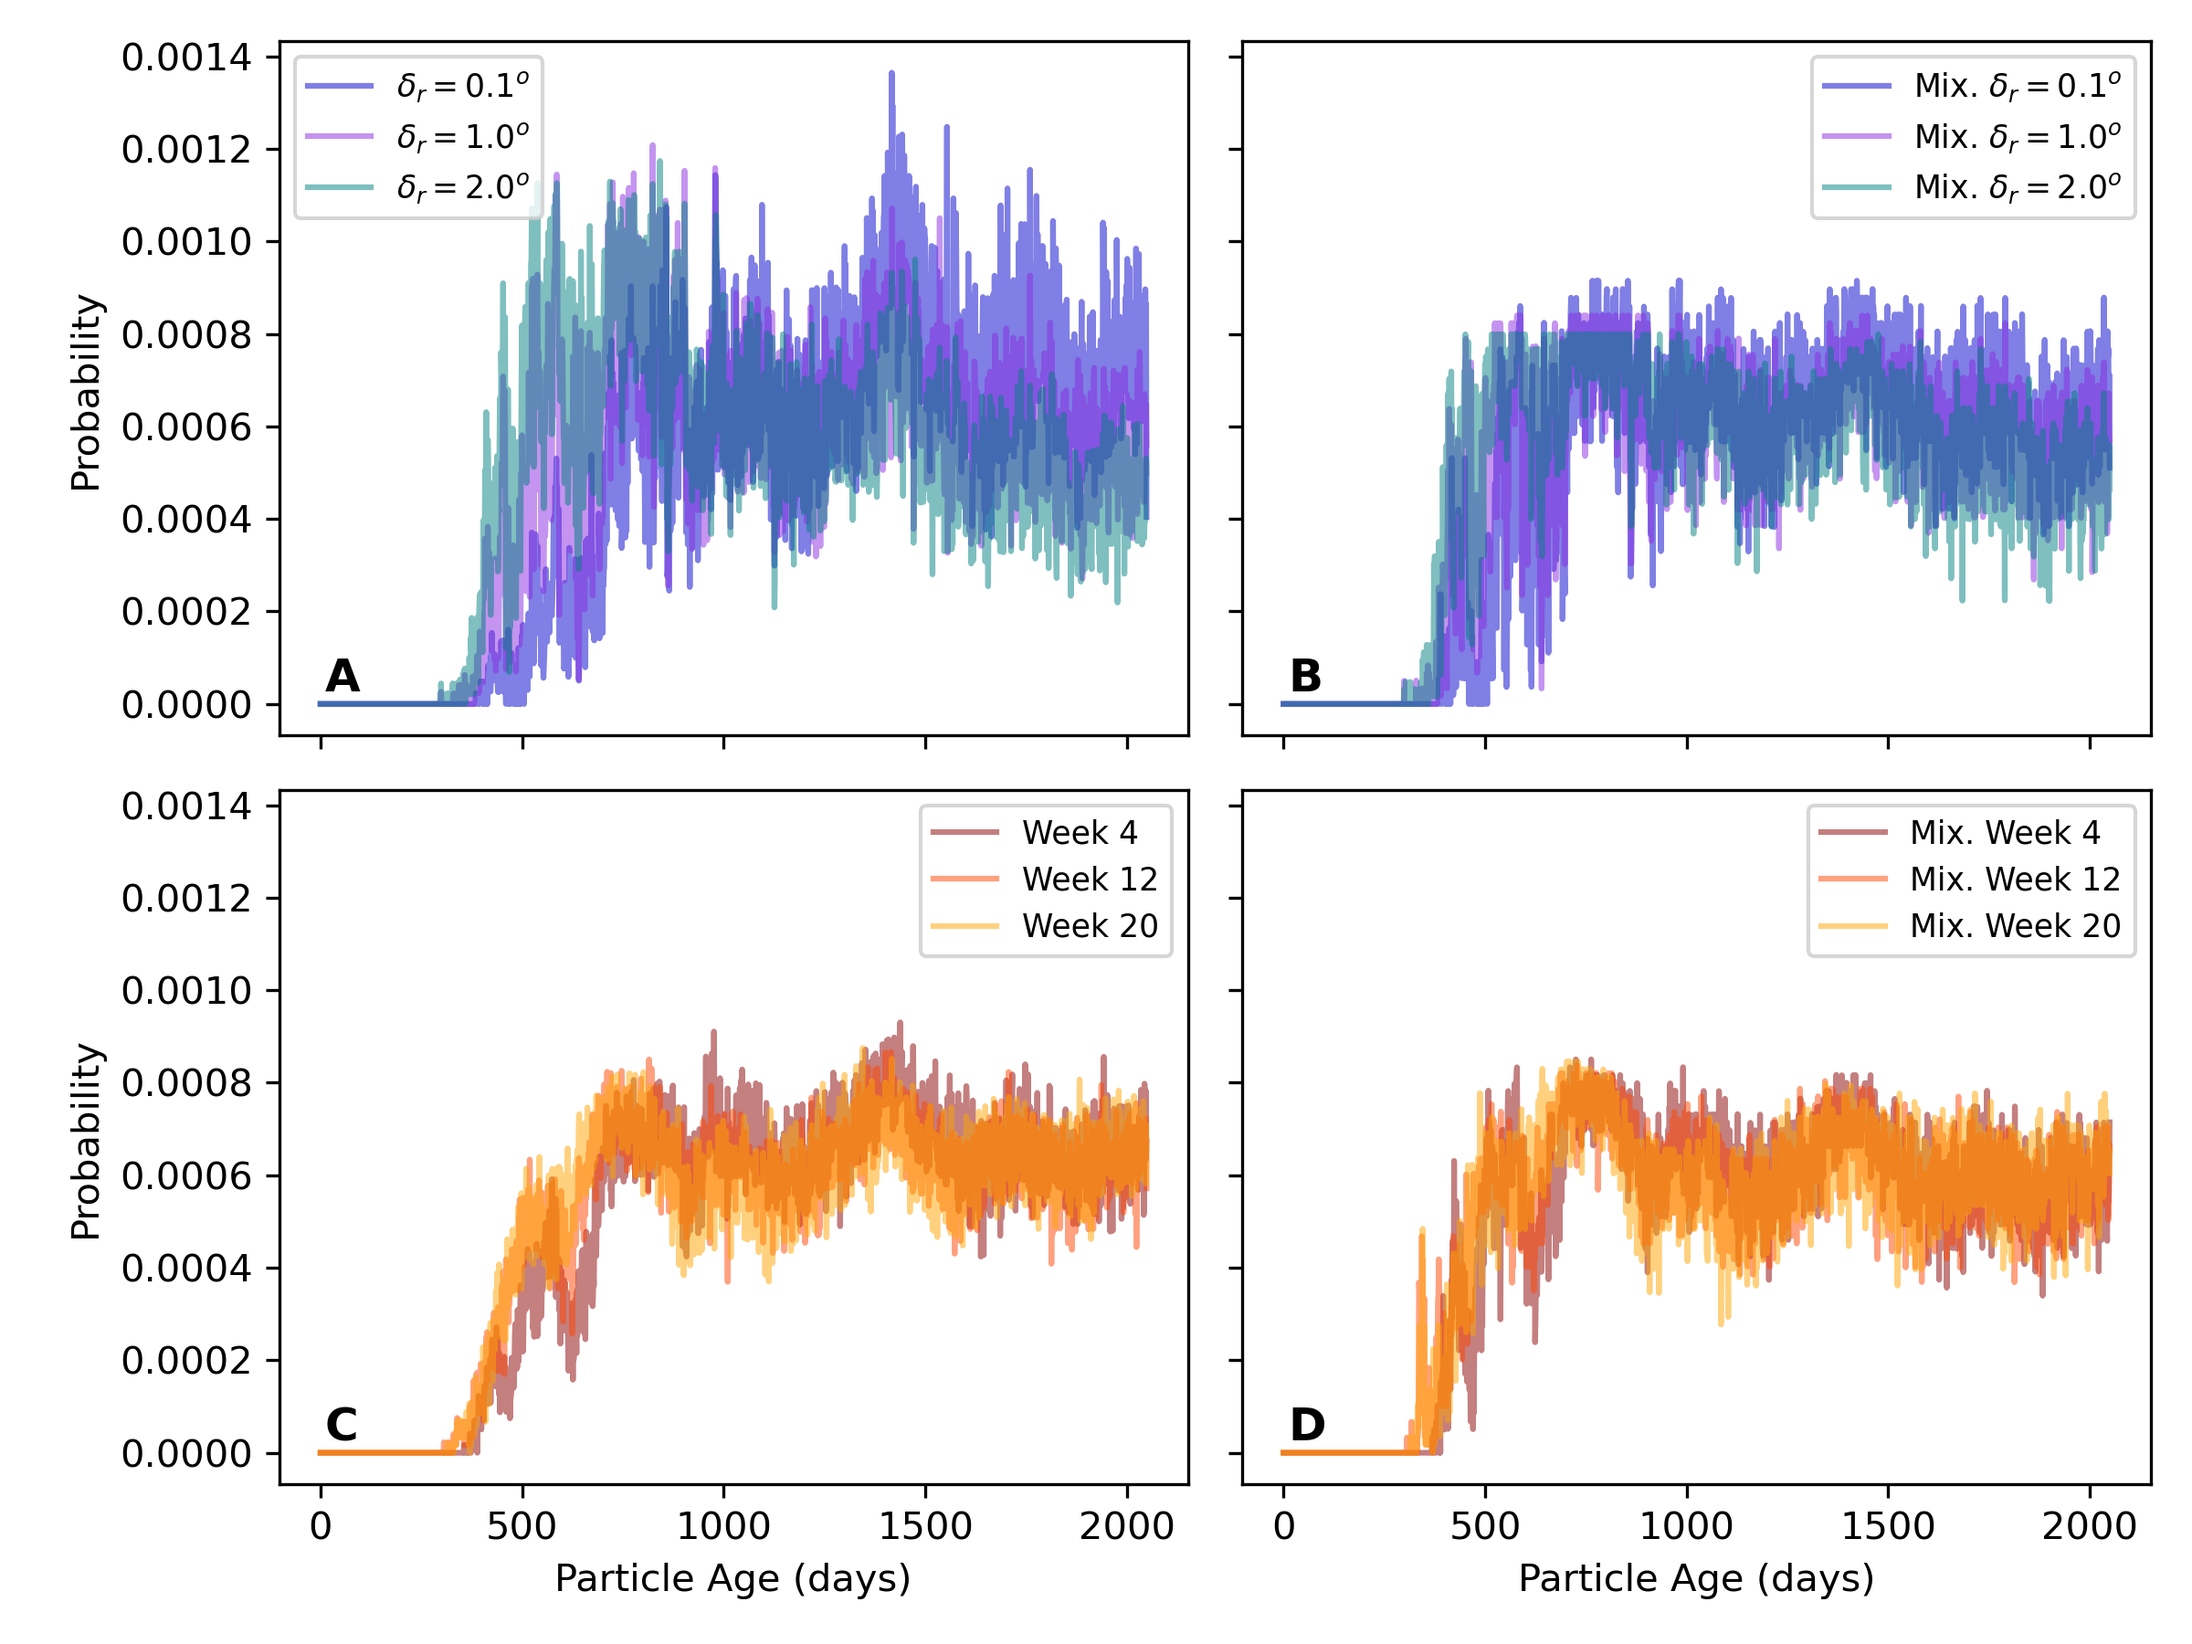
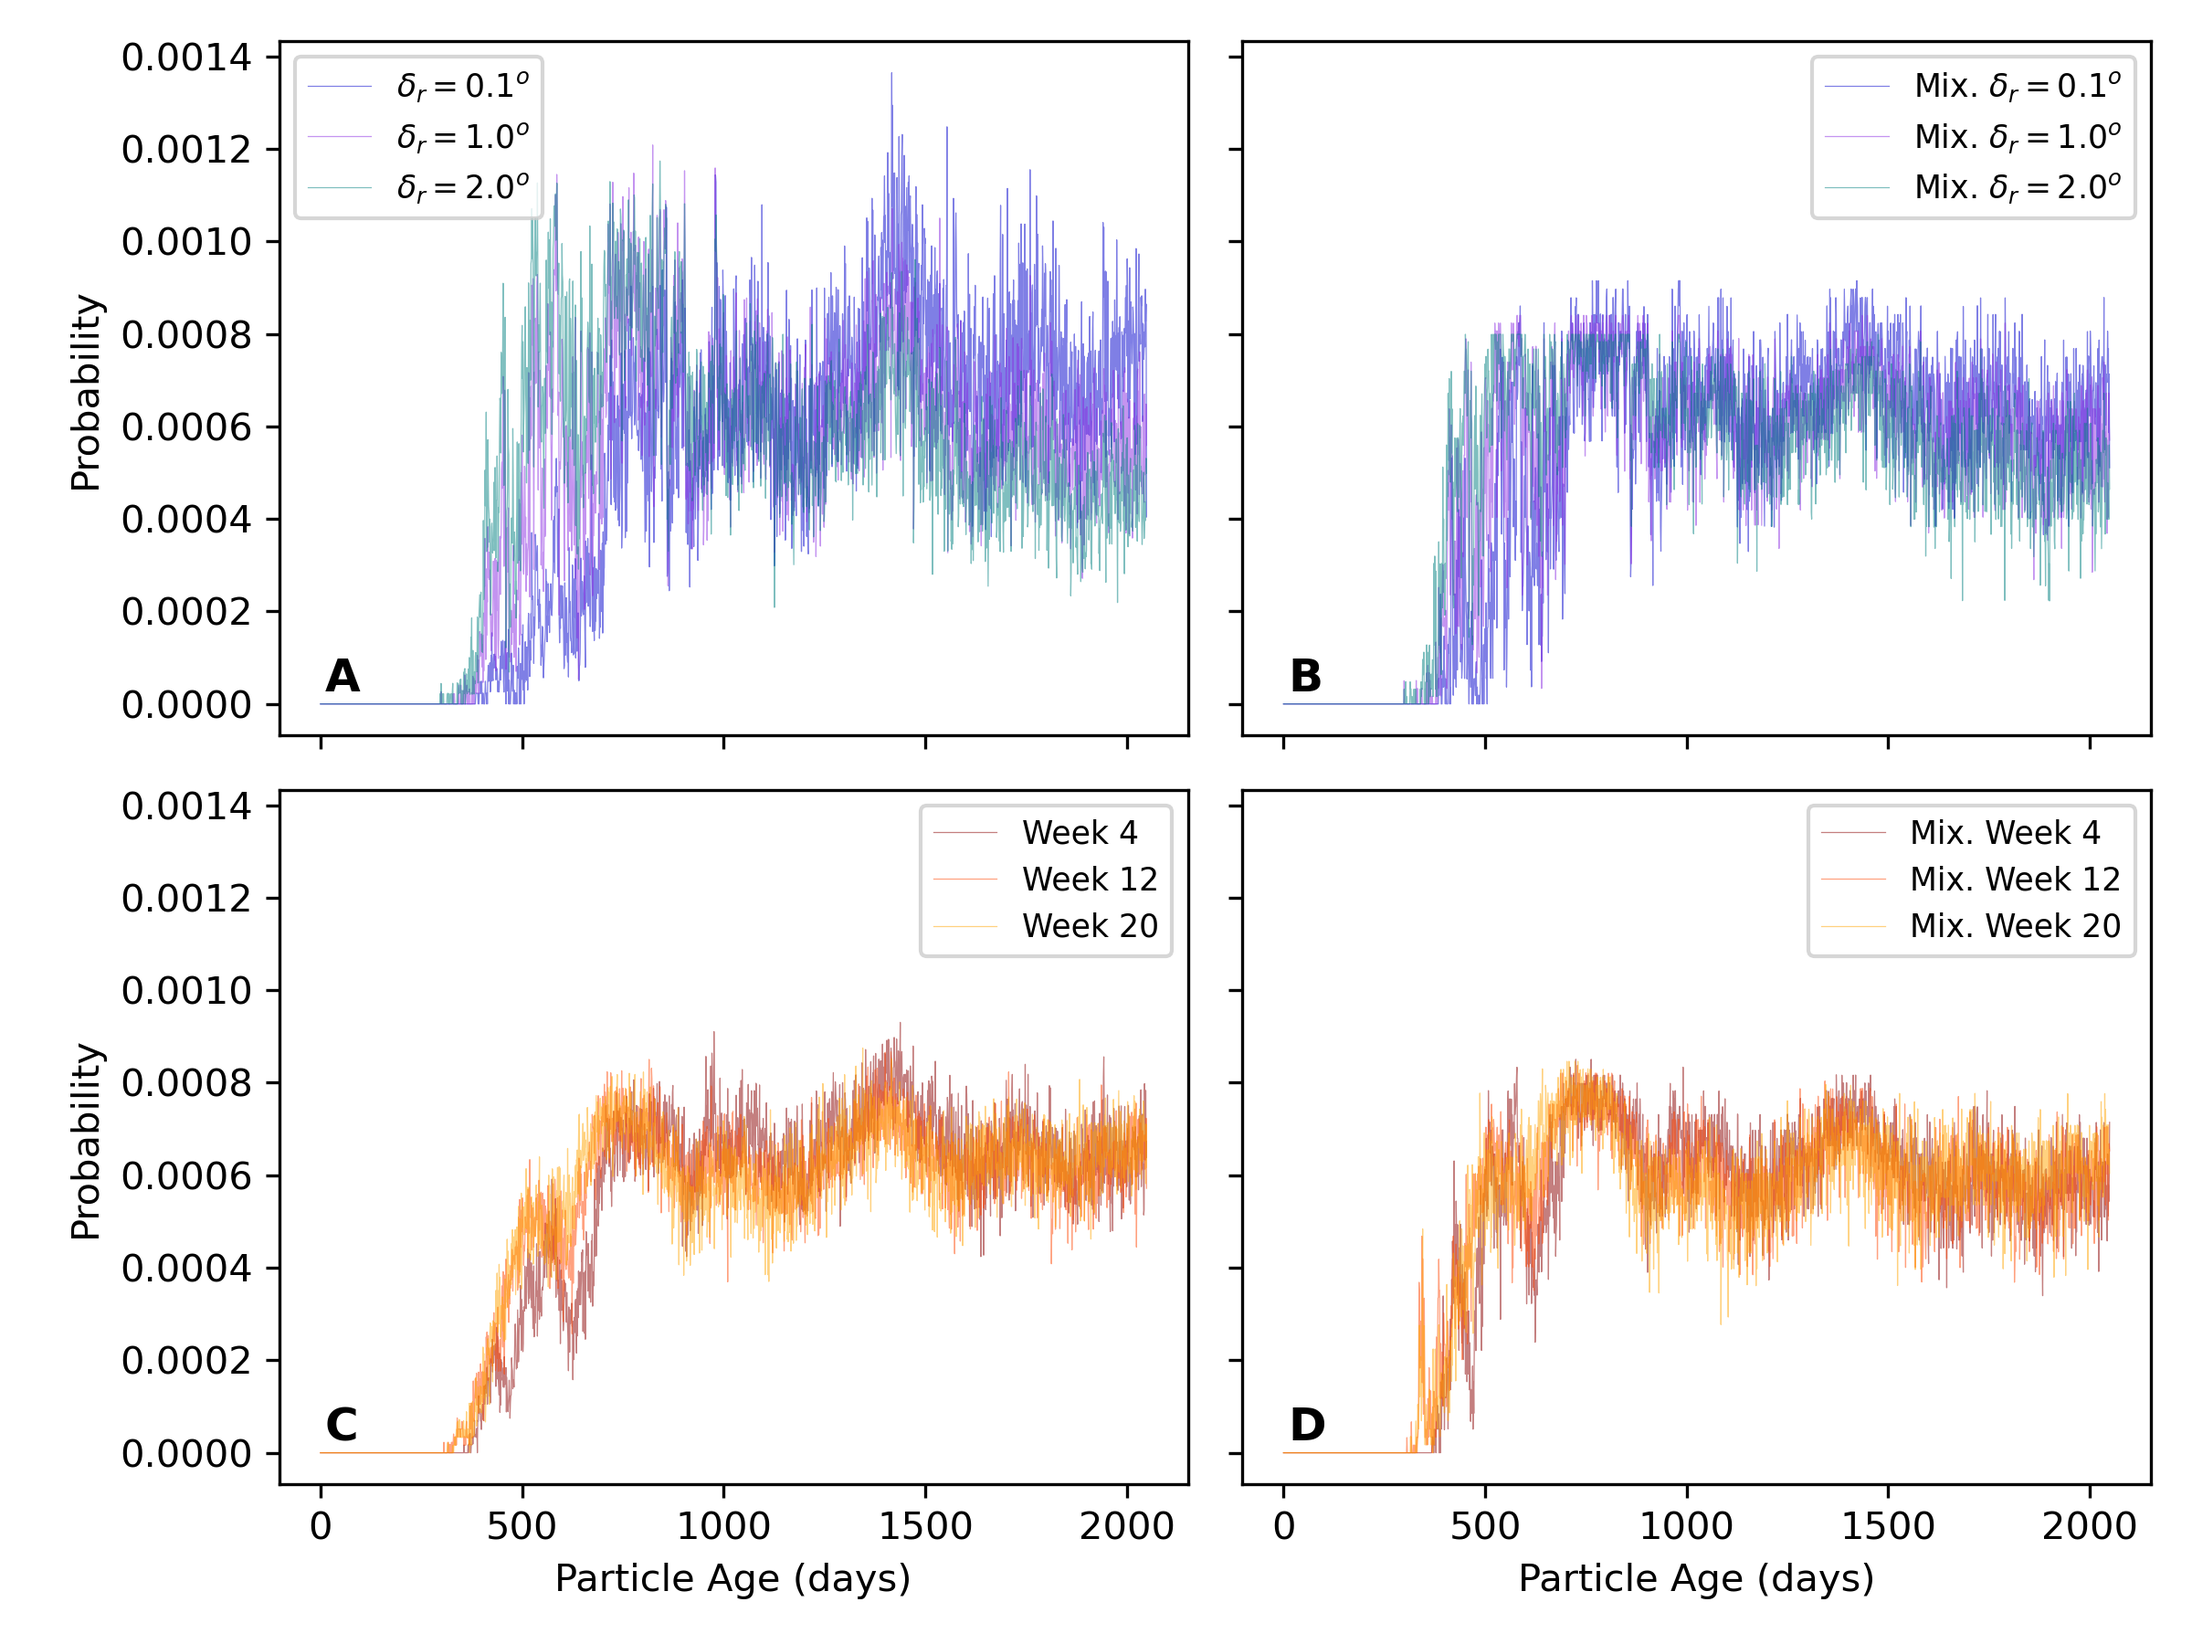
pedo mental sobre frequency y probabilidad

diff --git a/plot_scripts/Connectivity_entropy_measures.py b/plot_scripts/Connectivity_entropy_measures.py
@@ -116,7 +116,7 @@ for week in [4, 12, 20]:
             
             for k in time_range:
                 if k in unique:
-                    ping[k] = 1 # counts[np.where(unique == k)[0][0]]
+                    ping[k] =  1# counts[np.where(unique == k)[0][0]]
             
             if np.sum(ping) > 0:
                 ping = ping / np.sum(ping)
@@ -220,6 +220,14 @@ for week in [4, 12, 20]:
     
     all_mix_messages[week] = messages
     all_prob_mix[week] = np.mean(messages, axis=0)
+    
+#%% Check that the sum of the probabilities is 1
+for key in all_prob.keys():
+    print(f"Sum of probabilities for {key}: {np.sum(all_prob[key])}")
+    
+for key in all_prob_mix.keys():
+    print(f"Sum of probabilities for {key}: {np.sum(all_prob_mix[key])}")
+    
 
 # %% ############### PLOT Single members and Mixtures ####################
 fig, axs = plt.subplots(2, 2, figsize=(8, 6), sharex=True, sharey=True)
@@ -229,7 +237,7 @@ colors_time = ['darkred', 'orangered', 'orange']
 # Top left: Single members (delta_r)
 i = 0
 for delta_r in [0.1, 1., 2.]:
-    axs[0, 0].plot(all_prob[delta_r], label=f"$\delta_r = {delta_r}^o$", alpha=0.5, color=colors_space[i])
+    axs[0, 0].plot(all_prob[delta_r], label=f"$\delta_r = {delta_r}^o$", alpha=0.5, color=colors_space[i], lw=0.3)
     i += 1
     
 axs[0, 0].set_ylabel("Probability")
@@ -239,7 +247,7 @@ axs[0, 0].text(0.05, 0.05, 'A', transform=axs[0, 0].transAxes, fontsize=12, vert
 # Bottom left: Single members (week)
 i = 0
 for week in [4, 12, 20]:
-    axs[1, 0].plot(all_prob[week], label=f"Week {week}", alpha=0.5, color=colors_time[i])
+    axs[1, 0].plot(all_prob[week], label=f"Week {week}", alpha=0.5, color=colors_time[i], lw=0.3)
     i += 1
 axs[1, 0].set_xlabel("Particle Age (days)")
 axs[1, 0].set_ylabel("Probability")
@@ -249,7 +257,7 @@ axs[1, 0].text(0.05, 0.05, 'C', transform=axs[1, 0].transAxes, fontsize=12, vert
 # Top right: Mixtures (delta_r)
 i = 0
 for delta_r in [0.1, 1., 2.]:
-    axs[0, 1].plot(all_prob_mix[delta_r], label=f"Mix. $\delta_r = {delta_r}^o$", alpha=0.5, color=colors_space[i])
+    axs[0, 1].plot(all_prob_mix[delta_r], label=f"Mix. $\delta_r = {delta_r}^o$", alpha=0.5, color=colors_space[i], lw=0.3)
     i += 1
 axs[0, 1].legend(fontsize='small')
 axs[0, 1].text(0.05, 0.05, 'B', transform=axs[0, 1].transAxes, fontsize=12, verticalalignment='bottom', horizontalalignment='left', fontweight='bold')
@@ -257,7 +265,7 @@ axs[0, 1].text(0.05, 0.05, 'B', transform=axs[0, 1].transAxes, fontsize=12, vert
 # Bottom right: Mixtures (week)
 i = 0
 for week in [4, 12, 20]:
-    axs[1, 1].plot(all_prob_mix[week], label=f"Mix. Week {week}", alpha=0.5, color=colors_time[i])
+    axs[1, 1].plot(all_prob_mix[week], label=f"Mix. Week {week}", alpha=0.5, color=colors_time[i], lw=0.3)
     i += 1
     
 axs[1, 1].set_xlabel("Particle Age (days)")
@@ -276,6 +284,31 @@ ensemble.set_index('time', inplace=True)
 
 mixture = pd.DataFrame(all_prob_mix)
 mixture.set_index('time', inplace=True)
+
+#%% Comparisson mesage by message
+ensemble_rel_H = {}
+df_labels = ['$\\delta_r = 0.1^o$', '$\\delta_r = 1^o$', '$\\delta_r = 2^o$', '4 weeks', '12 weeks', '20 weeks']
+
+
+for j, delta in enumerate([0.1, 1., 2., 4, 12, 20]):
+    
+    KLD = np.zeros(6)
+    
+    for i, delta_ref in enumerate([0.1, 1., 2., 4, 12, 20]):
+        
+        relative_entropy = []
+        
+        for member in range(0, N_members):
+            for set in range(0, N_members):
+                
+                full = all_mix_messages[delta][set, :]
+                aprox = all_messages[delta_ref][member, :]
+        
+                relative_entropy.append(KLDivergence(aprox, full))
+
+        KLD[i] = np.mean(relative_entropy)
+    ensemble_rel_H[df_labels[j]] = KLD
+
 
 # %% DATAFRAMES Entropy of the ensemble and mixture
 ensemble_cross_entropy = {}
